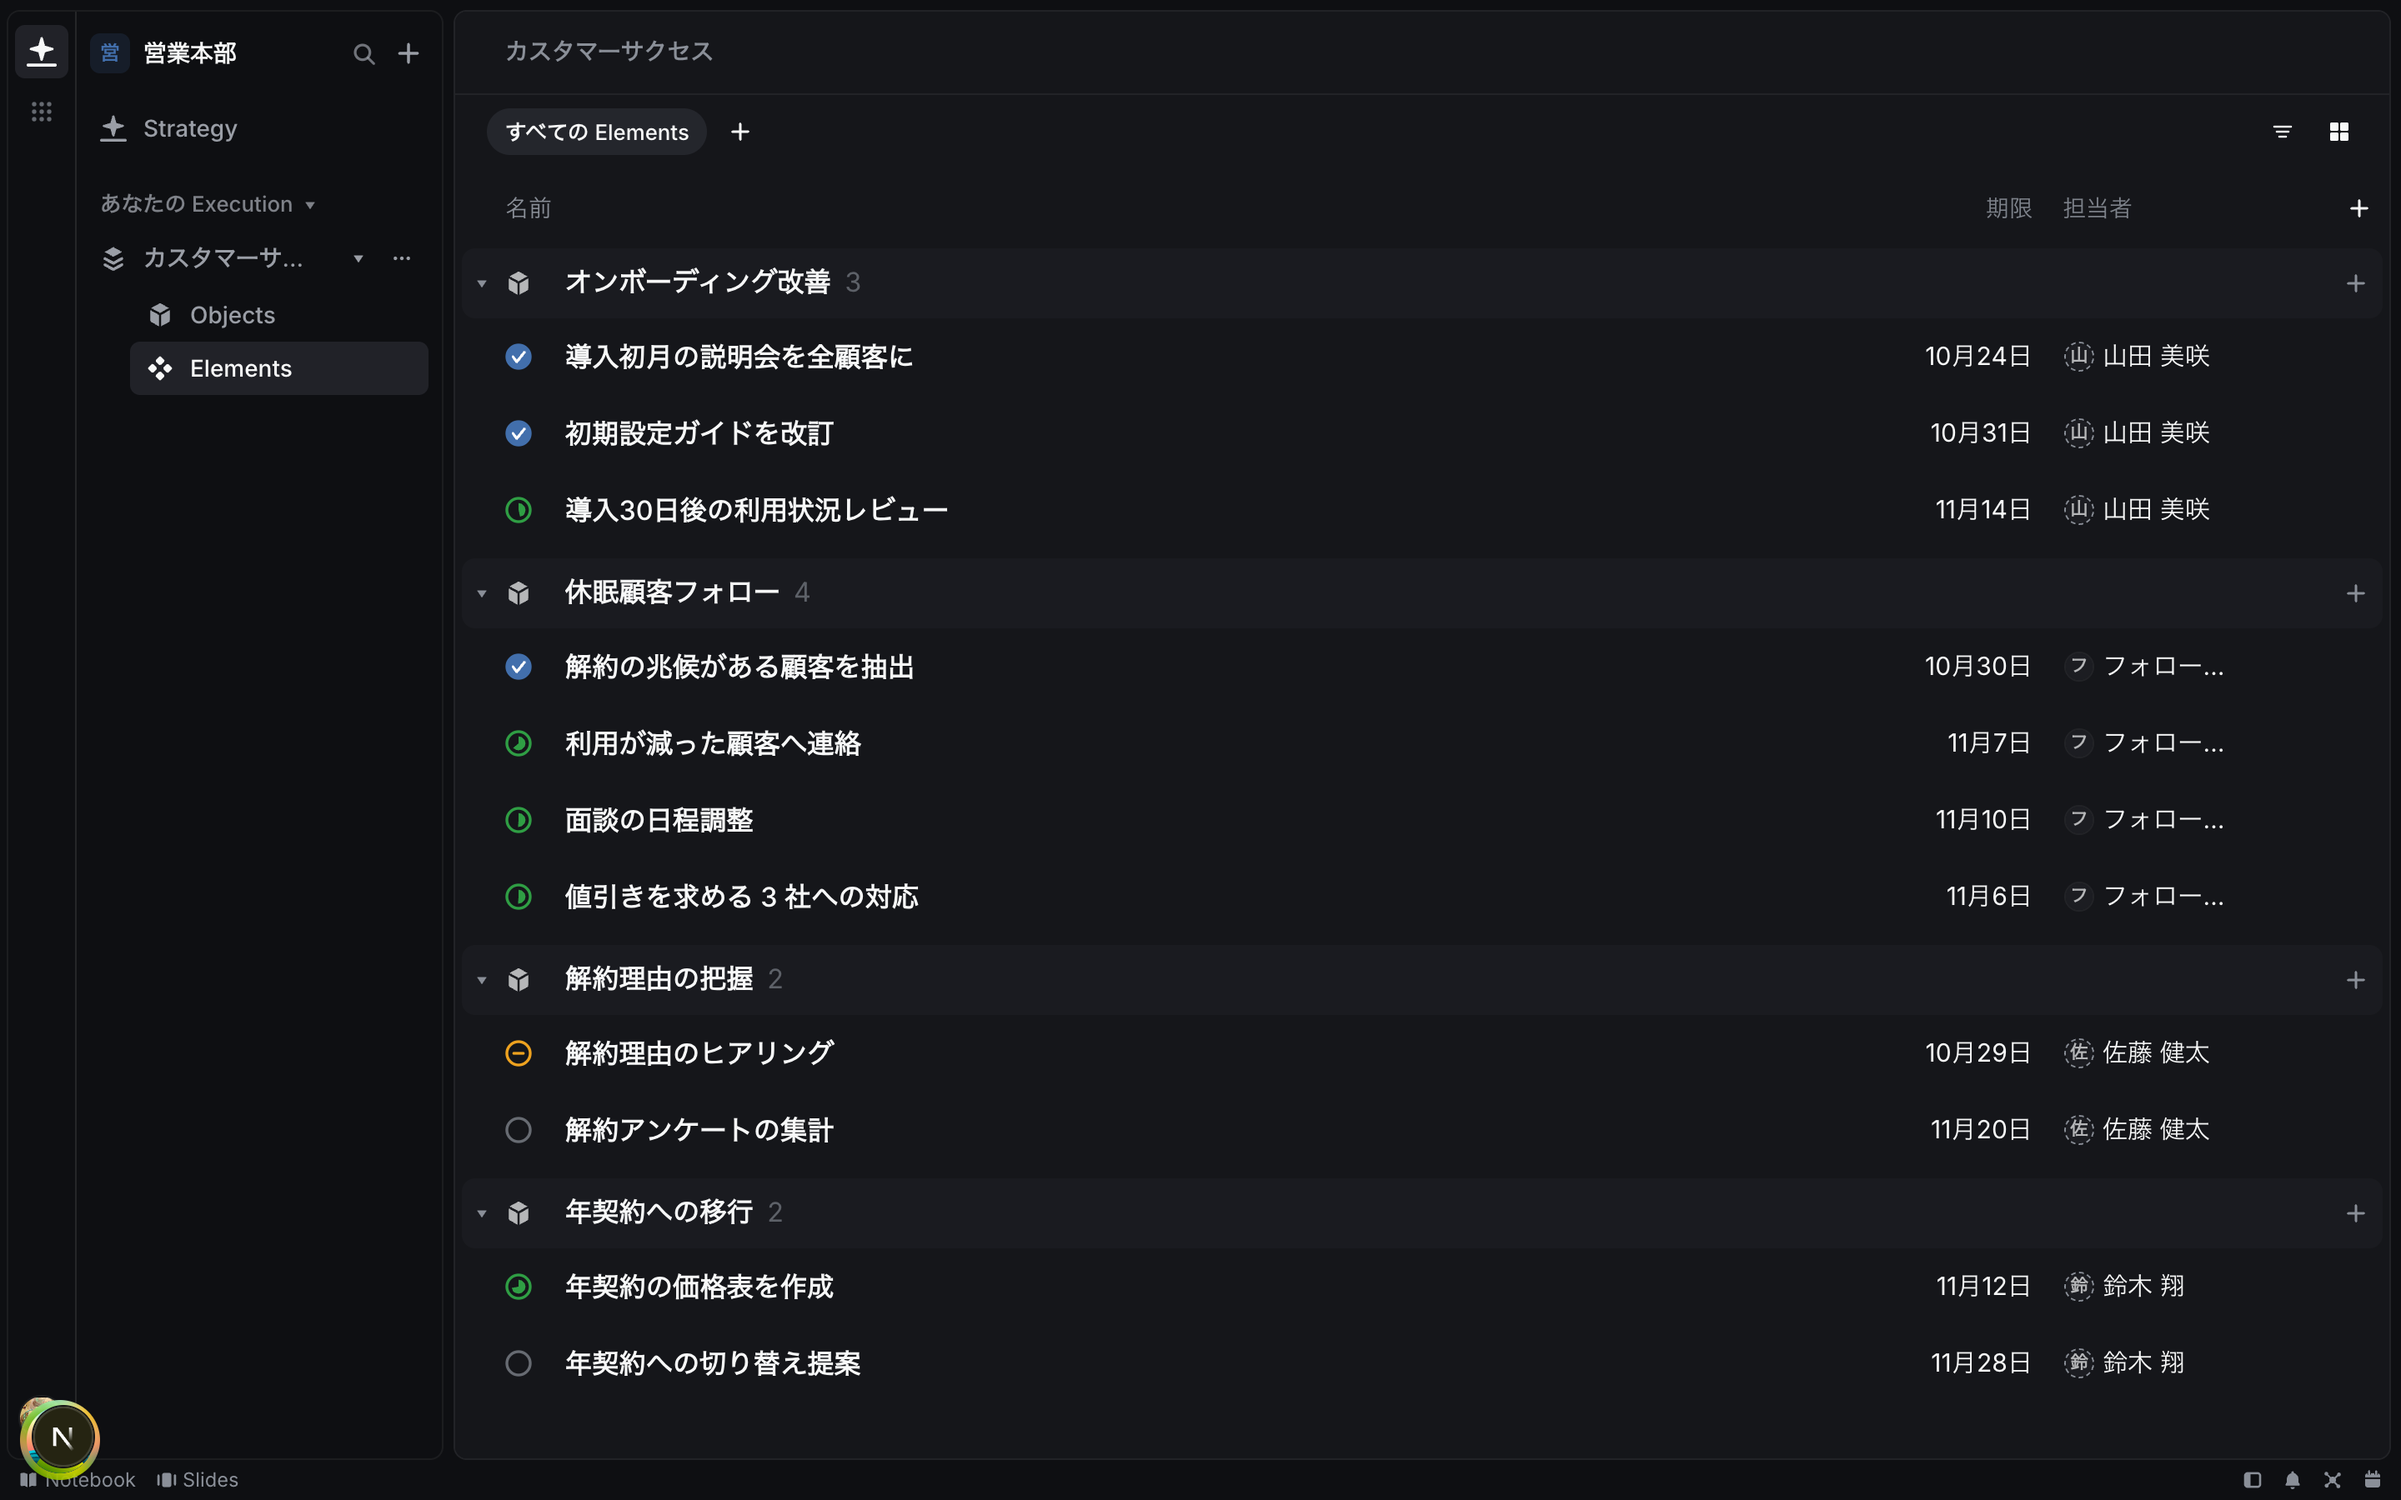
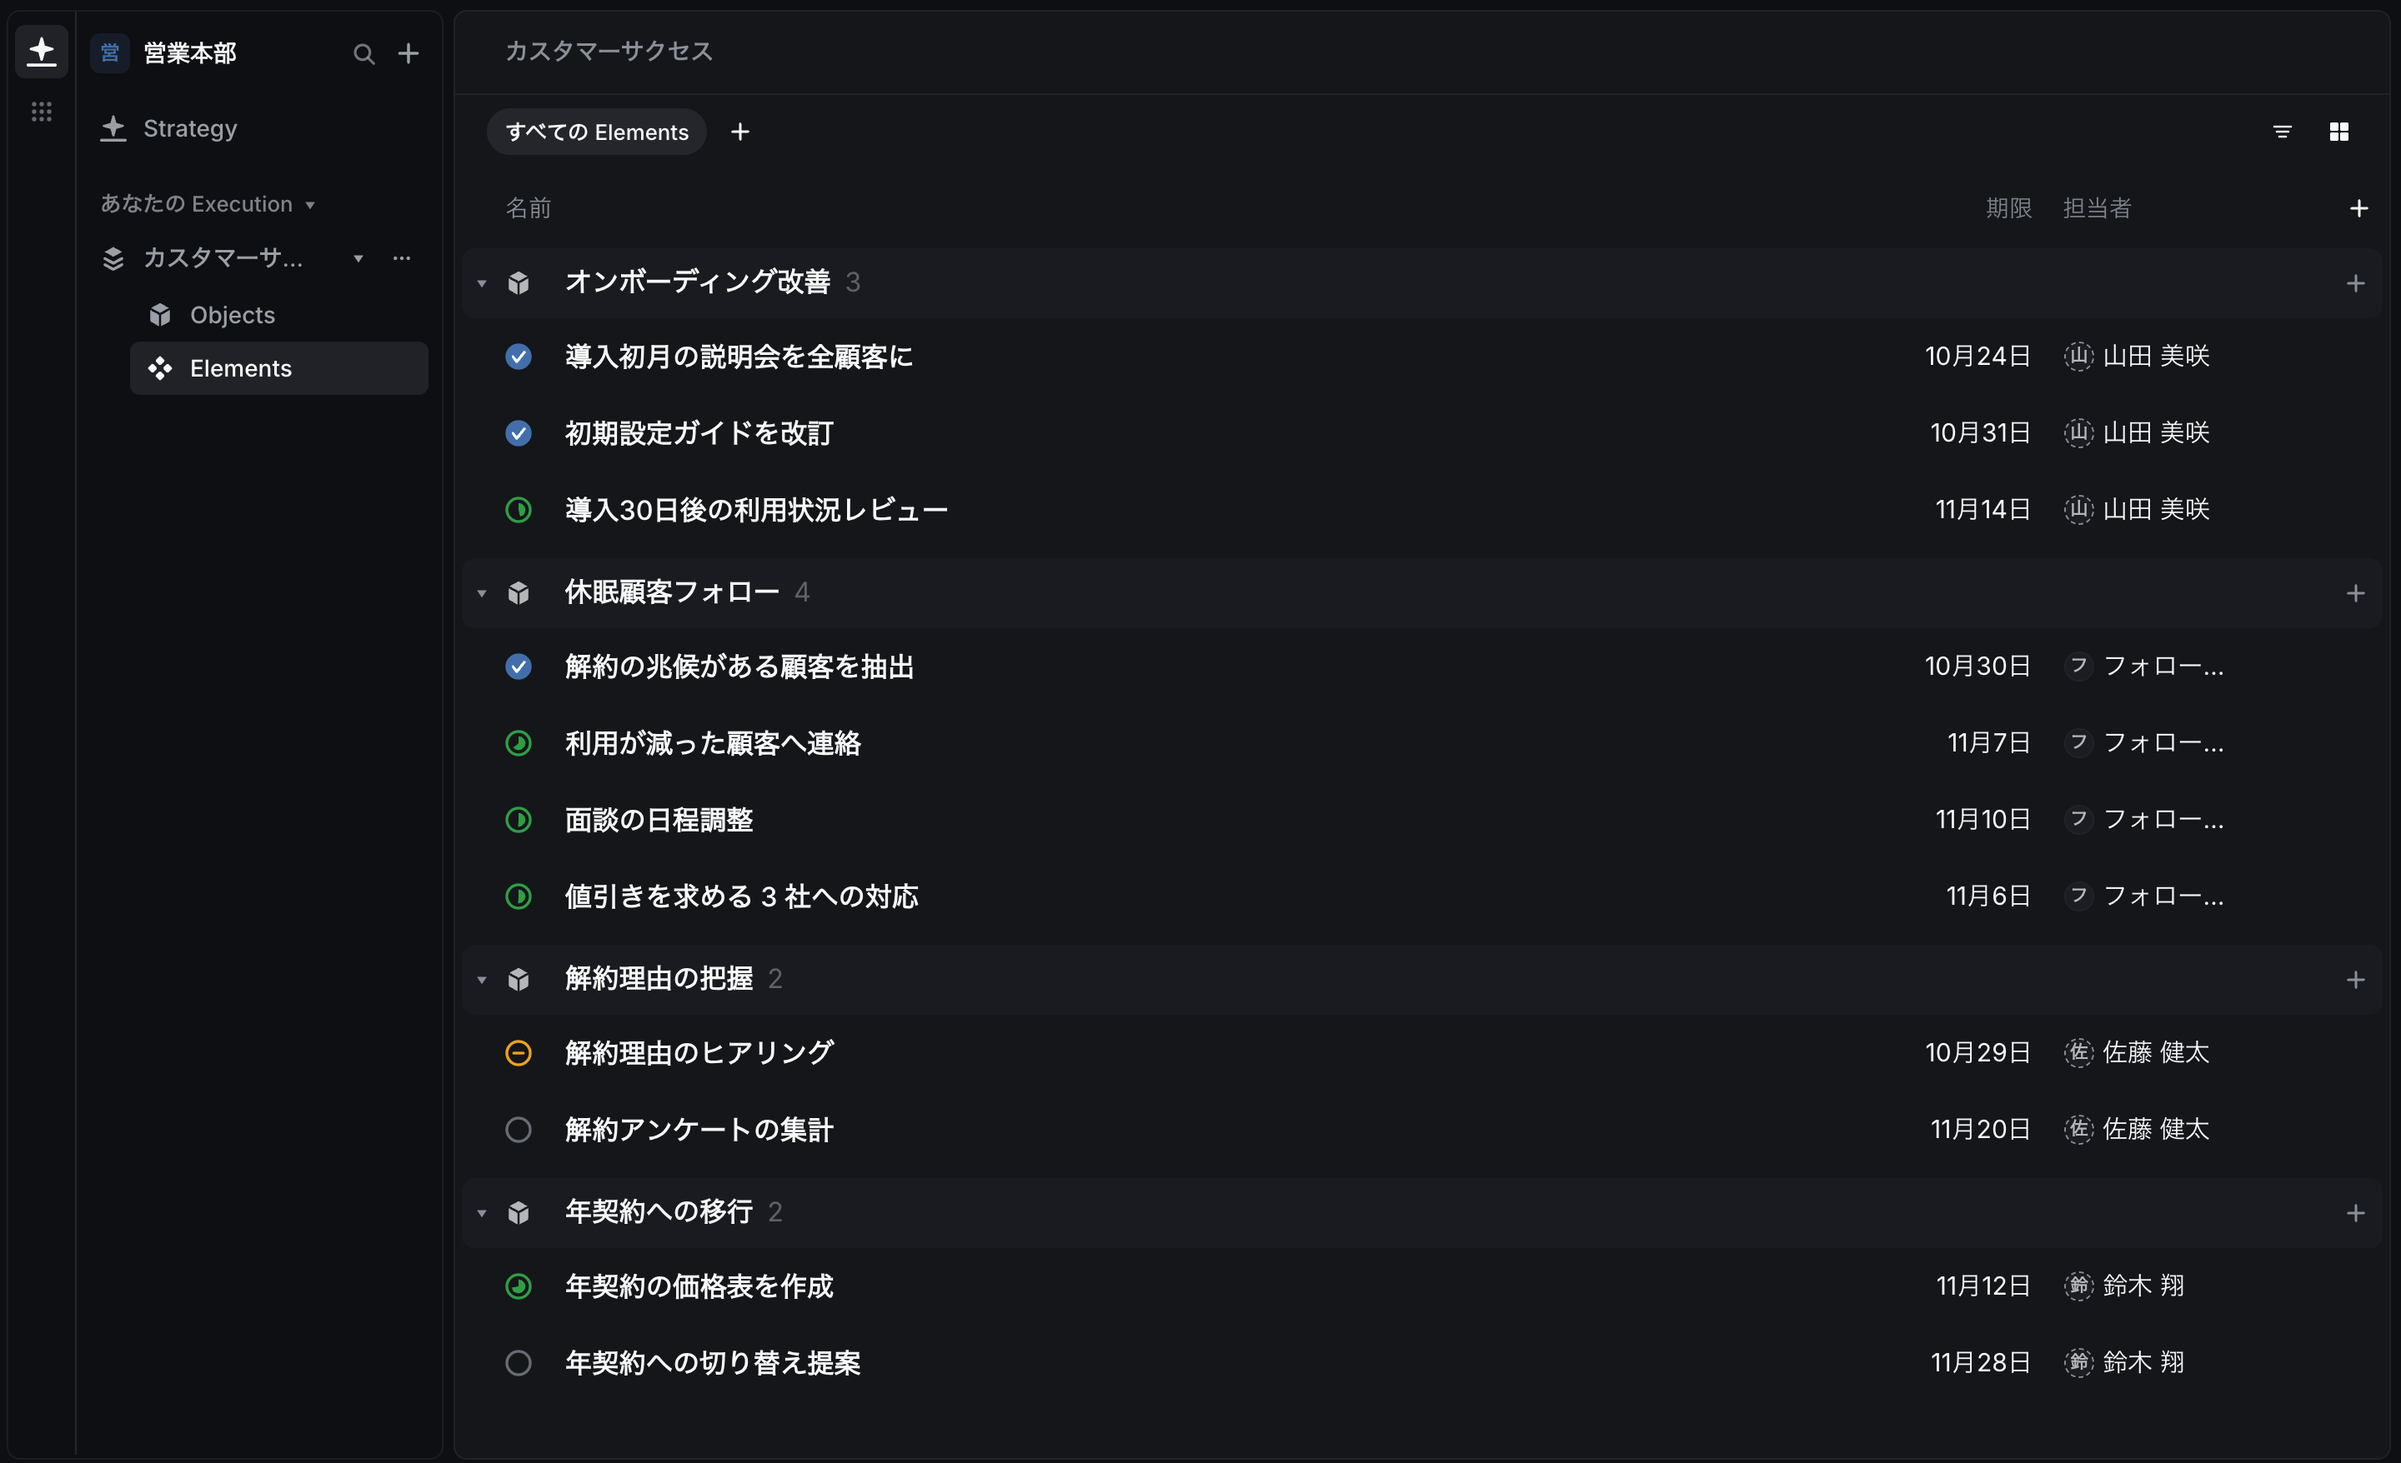
Screenshots lose the Next.js dev badge and the bottom bar
The round "N" development badge sat over the rail in the four
full-window screenshots; it is painted out with the empty rail above
it, and the Notebook/Slides bar with its icons is cropped off the
bottom so the shots show only the product.

Claude-Session: https://claude.ai/code/session_0121vJPExhcBtEQrAi7P9Efx

diff --git a/website/features.html b/website/features.html
@@ -66,10 +66,10 @@
       <li><b>止まった仕事が目立つ</b><span>ブロック中・期限切れは方針の画面にも出るので、聞いて回らずに気づけます。</span></li>
       <li><b>人と AI が同じ一覧に</b><span>AI に任せた仕事も、人の仕事と同じように担当として並びます。</span></li>
     </ul>
-    <figure class="shot"><img src="assets/app-elements.png" width="2880" height="1800" alt="仕事の一覧。オンボーディング改善・休眠顧客フォロー・解約理由の把握・年契約への移行のまとまりごとに、仕事・期限・担当が並んでいる" loading="lazy"></figure>
+    <figure class="shot"><img src="assets/app-elements.png" width="2880" height="1756" alt="仕事の一覧。オンボーディング改善・休眠顧客フォロー・解約理由の把握・年契約への移行のまとまりごとに、仕事・期限・担当が並んでいる" loading="lazy"></figure>
     <div class="shot-pair">
       <figure class="shot"><img src="assets/app-flow.png" width="2300" height="1520" alt="方針の下のまとまりと仕事の状態。解約理由の把握がブロック中、休眠顧客フォローが待機中" loading="lazy"></figure>
-      <figure class="shot"><img src="assets/app-object.png" width="2880" height="1800" alt="休眠顧客フォローの画面。進捗 25% と、貢献している方針「既存顧客の解約率を、半年で 5% から 3% に」とその理由が表示されている" loading="lazy"></figure>
+      <figure class="shot"><img src="assets/app-object.png" width="2880" height="1756" alt="休眠顧客フォローの画面。進捗 25% と、貢献している方針「既存顧客の解約率を、半年で 5% から 3% に」とその理由が表示されている" loading="lazy"></figure>
     </div>
     <p class="caption">左：方針から見た仕事の状態。右：仕事のまとまりから見た、貢献している方針とその理由。</p>
   </div>
@@ -86,7 +86,7 @@
       <li><b>表とスライド</b><span>集計の表や報告のスライドも、同じワークスペースで作れます。</span></li>
       <li><b>決めた理由が残る</b><span>方針には「なぜ」と「前提」を書く場所があり、担当が変わっても消えません。</span></li>
     </ul>
-    <figure class="shot"><img src="assets/app-notebook.png" width="2880" height="1800" alt="ノートの画面。11月 解約防止 定例メモに、今週の数字・決めたこと・止まっていること・次回までにが書かれている" loading="lazy"></figure>
+    <figure class="shot"><img src="assets/app-notebook.png" width="2880" height="1756" alt="ノートの画面。11月 解約防止 定例メモに、今週の数字・決めたこと・止まっていること・次回までにが書かれている" loading="lazy"></figure>
   </div>
 </section>
 

diff --git a/website/index.html b/website/index.html
@@ -34,7 +34,7 @@
 
   <div class="wrap wide">
     <figure class="shot shot-hero">
-      <img src="assets/app-execution.png" width="2880" height="1800" alt="Alcon の方針画面。「既存顧客の解約率を、半年で 5% から 3% に」の下に、進捗 33%、人の判断待ち 1、AI からの値引きの承認依頼が並んでいる">
+      <img src="assets/app-execution.png" width="2880" height="1756" alt="Alcon の方針画面。「既存顧客の解約率を、半年で 5% から 3% に」の下に、進捗 33%、人の判断待ち 1、AI からの値引きの承認依頼が並んでいる">
     </figure>
   </div>
 </section>
